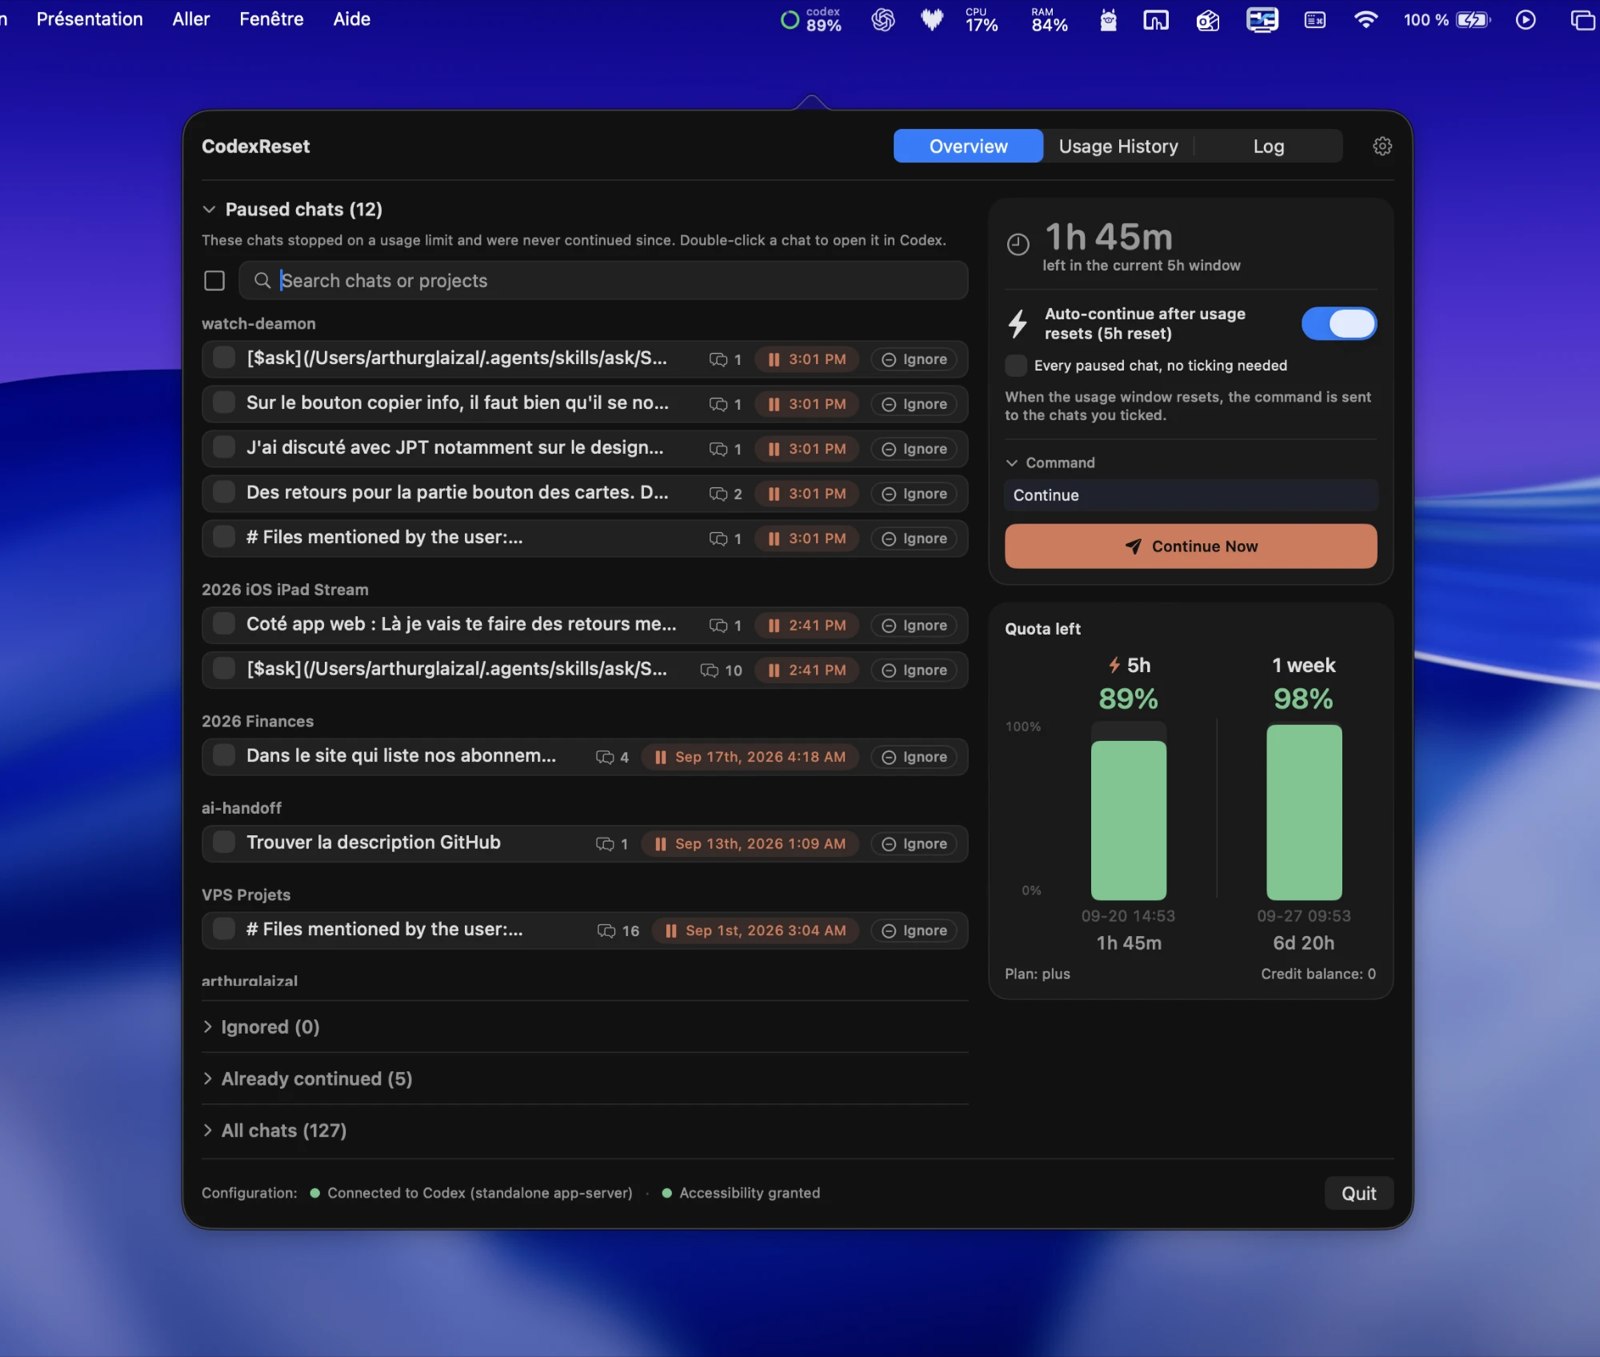
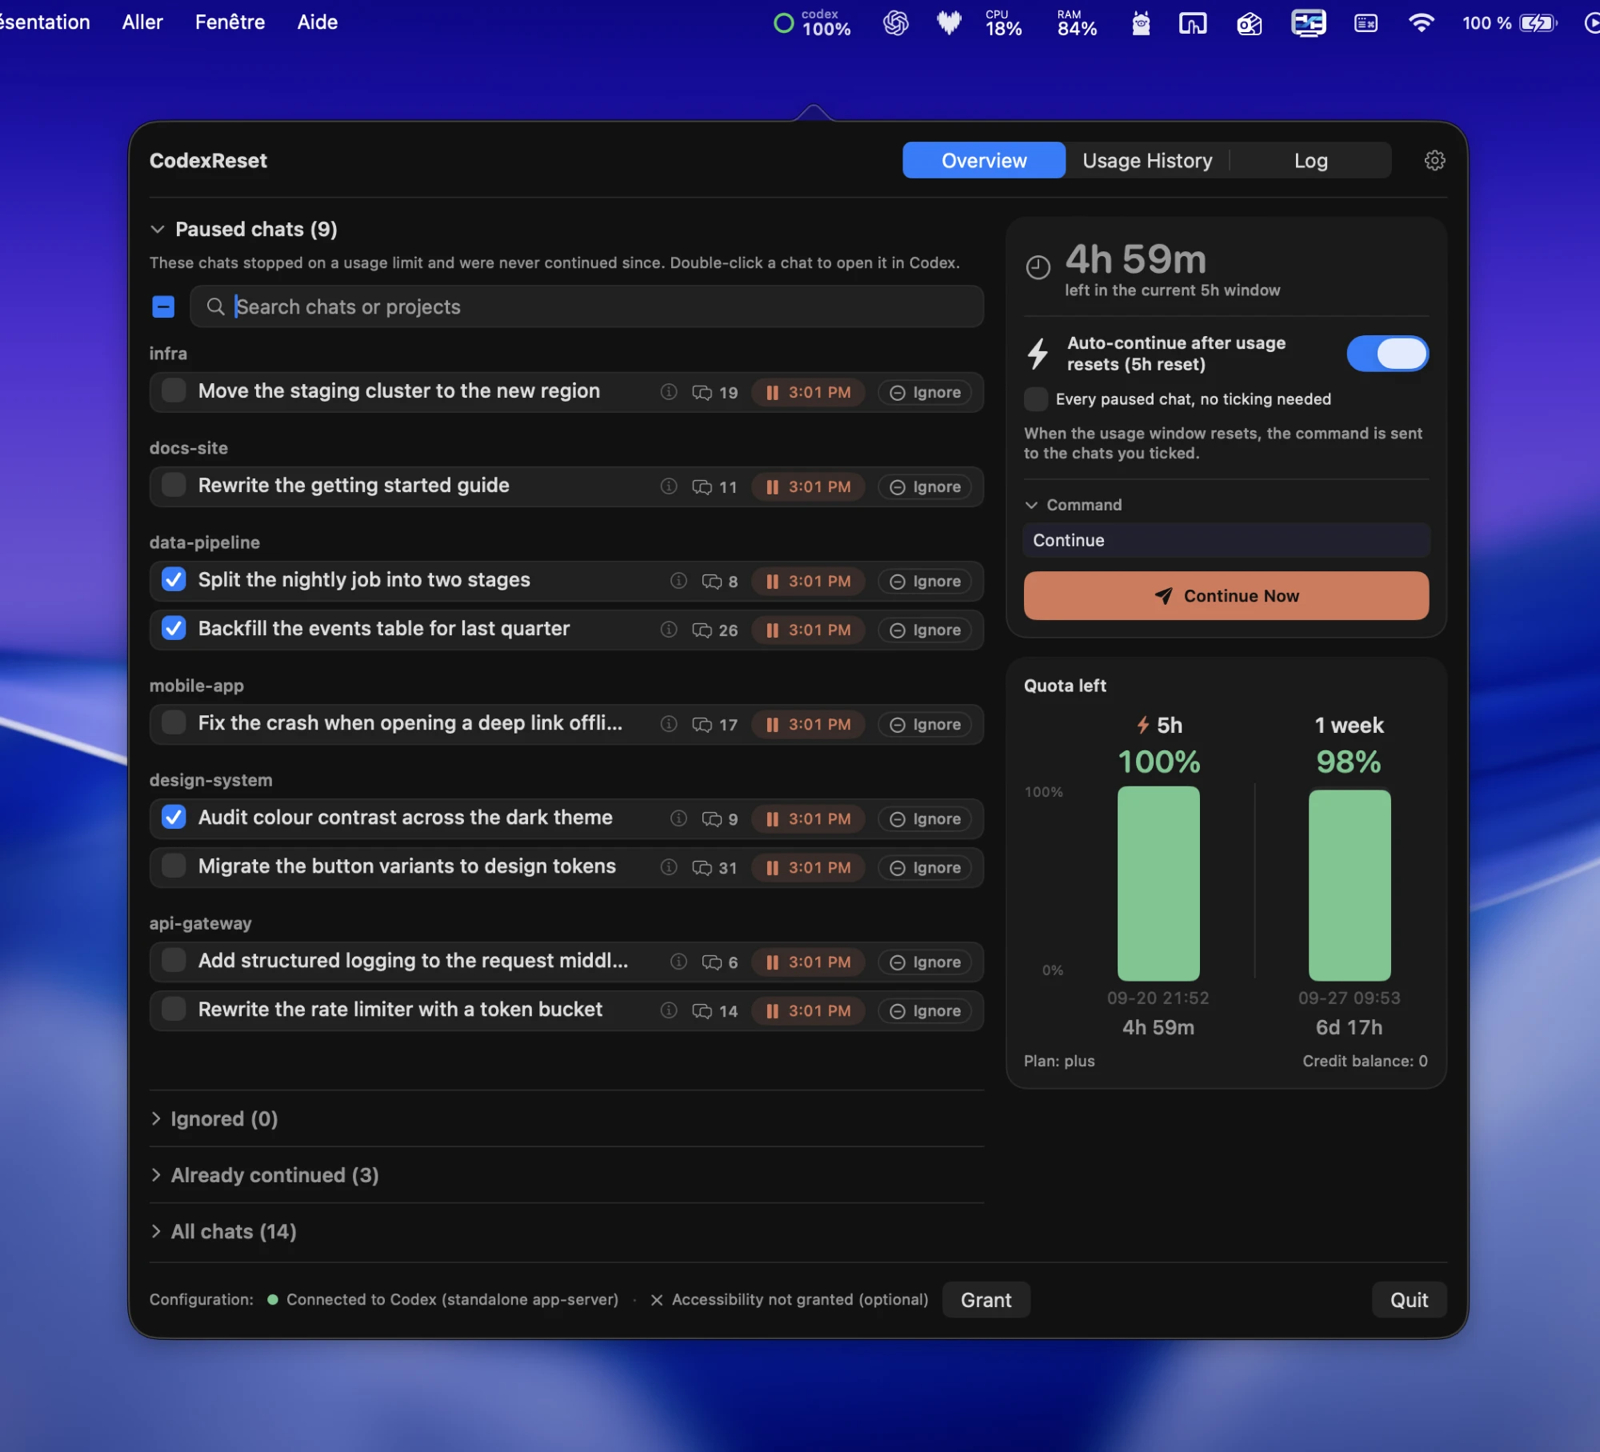
docs: screenshot taken on fictional data
The previous one showed real project names, prompt excerpts and a home
directory path, all of which would have been public and permanent.

Retake it against the demo dataset: neutral project names, English task
titles, nothing personal. The alt text now describes the whole panel.

diff --git a/README.md b/README.md
@@ -24,7 +24,7 @@ command) the moment your usage is back** — so you never have to babysit the
 >
 > Full list of differences: **[FORK.md](FORK.md)**
 
-<img src="docs/fork-preview.png" width="800" alt="CodexReset fork, dark mode: paused chats with status chips, ignore buttons, reset countdown and quota gauges">
+<img src="docs/fork-preview.png" width="800" alt="CodexReset fork in dark mode: paused chats grouped by project, each with a turn count, a pause chip and an ignore button; on the right the auto-continue card, the reset countdown and the quota gauges">
 
 ## Why
 
